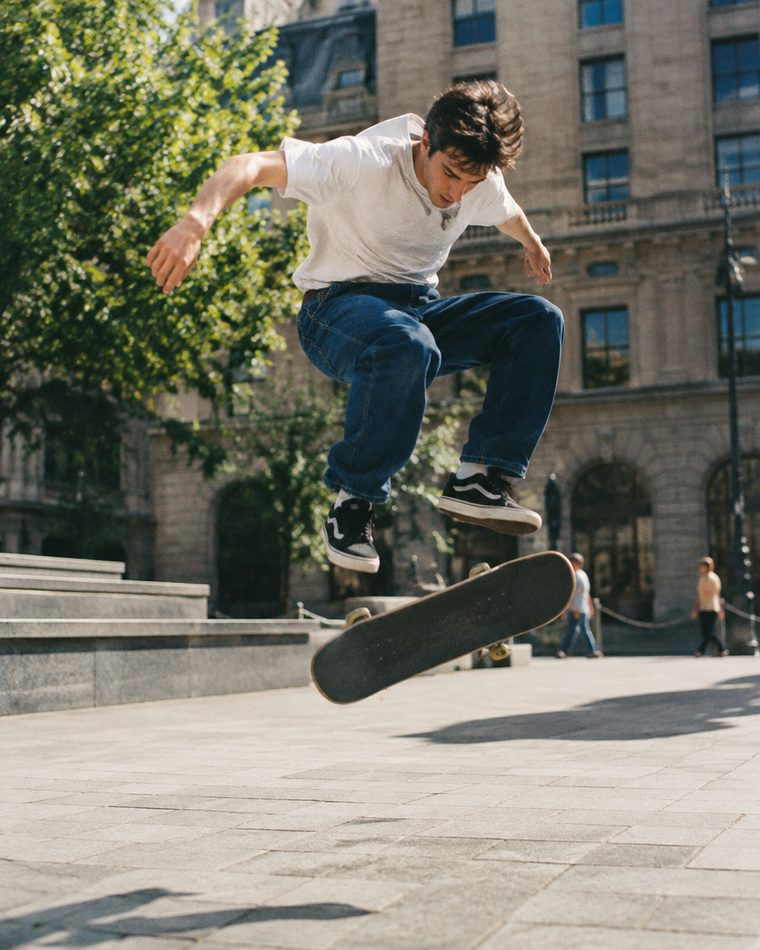
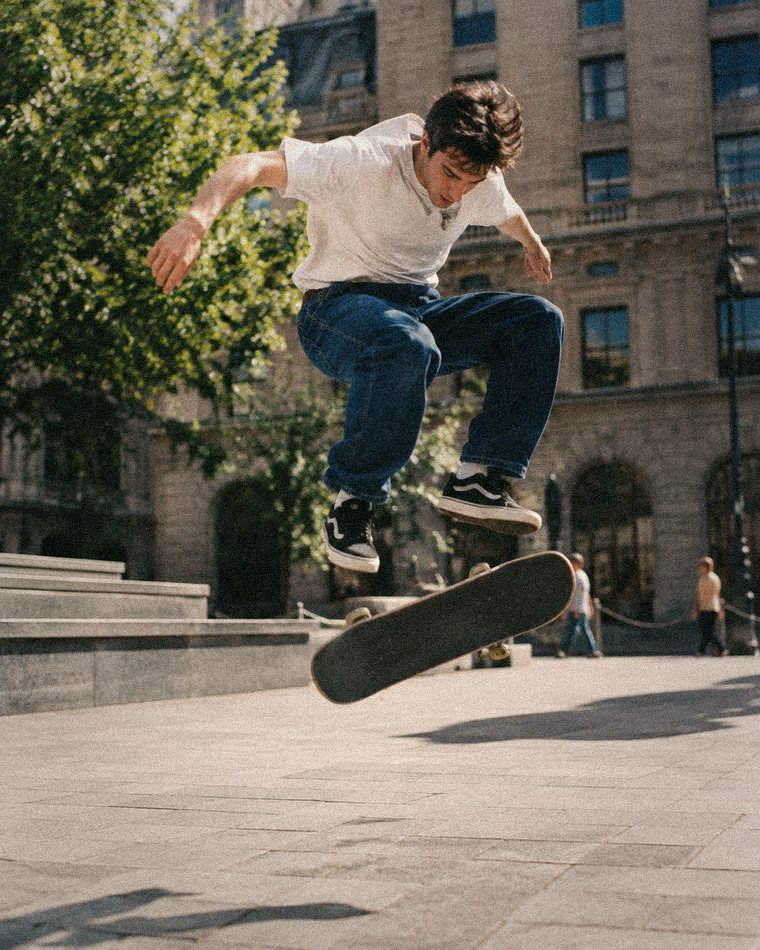
Lock design: Deck type, lime, Original hero, no panel; clean jar cutouts; filmic photo grade; two-tone wordmark
- Remove prototype panel (typeface=Deck, accent=lime, section numbers off, hero=Original — all fixed)
- Clean the jar cutout edges (de-jagged alpha) on all three jars
- Filmic grade + grain on lifestyle photos to match the deck's 35mm aesthetic
- Wordmark: 'wasabi' lime + 'rub' white

diff --git a/index.html b/index.html
@@ -2,15 +2,13 @@
 <meta charset="utf-8"><meta name="viewport" content="width=device-width,initial-scale=1">
 <title>WasabiRub 2027</title>
 <meta name="robots" content="noindex,nofollow">
-<link rel="preconnect" href="https://fonts.googleapis.com"><link rel="preconnect" href="https://fonts.gstatic.com" crossorigin>
-<link href="https://fonts.googleapis.com/css2?family=Fraunces:ital,opsz,wght@0,9..144,500;1,9..144,500&family=Archivo:ital,wght@0,500;0,700;0,900;1,900&family=Playfair+Display:ital,wght@0,500;0,700;1,600&family=Jost:ital,wght@0,400;0,500;0,700;1,700&display=swap" rel="stylesheet">
 <link rel="stylesheet" href="css/site.css">
 </head><body>
 <div class="ticker" aria-hidden="true"><div class="run">
 <span>MADE FOR EVERY BODY THAT MOVES</span><span>•</span><span>PAIN RELIEF THAT KEEPS YOU MOVING</span><span>•</span><span>MOVE SERIOUSLY. LIVE PLAYFULLY.</span><span>•</span><span>BELONG IN MOTION</span><span>•</span><span>MADE FOR EVERY BODY THAT MOVES</span><span>•</span><span>PAIN RELIEF THAT KEEPS YOU MOVING</span><span>•</span><span>MOVE SERIOUSLY. LIVE PLAYFULLY.</span><span>•</span>
 </div></div>
 <nav class="bar"><div class="wrap bar-in">
-  <a class="wm" href="index.html">wasabirub<sup>&reg;</sup></a>
+  <a class="wm" href="index.html">wasabi<span class="wr">rub<sup>&reg;</sup></span></a>
   <div class="links"><a href="shop.html">The rubs</a><a href="index.html#idea">The idea</a><a href="index.html#cred">Why trust it</a><a href="index.html#belong">The movement</a></div>
   <span class="spacer"></span>
   <a class="pill-btn" href="shop.html">Shop &rarr;</a>
@@ -23,7 +21,7 @@
     <div class="badges"><span class="badge"><b>&check;</b> Pharmacist formulated</span><span class="badge"><b>&check;</b> TruShield Certified</span><span class="badge"><b>&check;</b> Tested for sport</span></div>
   </div>
   <div class="jar-vis"><span class="jar-disc"></span><span class="jar-shadow"></span><span class="geo g1">34.0195&deg;N</span><span class="geo g2">IN MOTION</span>
-    <img id="hero-jar" src="assets/jar-hot.png" alt="WasabiRub Super Hot jar"></div>
+    <img id="hero-jar" src="assets/jar-og.png" alt="WasabiRub Original jar"></div>
 </div></header>
 
 <section class="band"><img id="band-photo" src="assets/life-finish.jpg" alt="Runners celebrating at a sunny finish line">
@@ -92,7 +90,7 @@
 <footer><div class="wrap">
   <span class="concept-flag">2027 Direction concept &middot; secondary site option &middot; not the live site</span>
   <div class="foot-top">
-    <div><span class="wm">wasabirub<sup>&reg;</sup></span><p class="foot-tag">pain relief that keeps you moving.</p></div>
+    <div><span class="wm">wasabi<span class="wr">rub<sup>&reg;</sup></span></span><p class="foot-tag">pain relief that keeps you moving.</p></div>
     <div class="foot-cols">
       <div class="foot-col"><h4>Shop</h4><a href="product-wasabirub.html">WasabiRub</a><a href="product-super-hot.html">Super Hot</a><a href="product-super-cold.html">Super Cold</a><a href="shop.html">All rubs</a></div>
       <div class="foot-col"><h4>Brand</h4><a href="index.html#idea">The idea</a><a href="index.html#cred">Why trust it</a><a href="index.html#belong">The movement</a></div>
@@ -100,5 +98,4 @@
   </div>
   <p class="foot-fine">Concept exploration of the 2027 movement-brand direction for WasabiRub by SportPharm &mdash; a secondary site option, not the live store. For external use only. For the temporary relief of minor aches and pains of muscles and joints; use only as directed and read the Drug Facts label. Product photography is real; lifestyle imagery is AI-generated for direction.</p>
 </div></footer>
-<script src="proto.js" defer></script>
 </body></html>

diff --git a/product-super-cold.html b/product-super-cold.html
@@ -2,15 +2,13 @@
 <meta charset="utf-8"><meta name="viewport" content="width=device-width,initial-scale=1">
 <title>Super Cold | WasabiRub 2027</title>
 <meta name="robots" content="noindex,nofollow">
-<link rel="preconnect" href="https://fonts.googleapis.com"><link rel="preconnect" href="https://fonts.gstatic.com" crossorigin>
-<link href="https://fonts.googleapis.com/css2?family=Fraunces:ital,opsz,wght@0,9..144,500;1,9..144,500&family=Archivo:ital,wght@0,500;0,700;0,900;1,900&family=Playfair+Display:ital,wght@0,500;0,700;1,600&family=Jost:ital,wght@0,400;0,500;0,700;1,700&display=swap" rel="stylesheet">
 <link rel="stylesheet" href="css/site.css">
 </head><body>
 <div class="ticker" aria-hidden="true"><div class="run">
 <span>MADE FOR EVERY BODY THAT MOVES</span><span>•</span><span>PAIN RELIEF THAT KEEPS YOU MOVING</span><span>•</span><span>MOVE SERIOUSLY. LIVE PLAYFULLY.</span><span>•</span><span>BELONG IN MOTION</span><span>•</span><span>MADE FOR EVERY BODY THAT MOVES</span><span>•</span><span>PAIN RELIEF THAT KEEPS YOU MOVING</span><span>•</span><span>MOVE SERIOUSLY. LIVE PLAYFULLY.</span><span>•</span>
 </div></div>
 <nav class="bar"><div class="wrap bar-in">
-  <a class="wm" href="index.html">wasabirub<sup>&reg;</sup></a>
+  <a class="wm" href="index.html">wasabi<span class="wr">rub<sup>&reg;</sup></span></a>
   <div class="links"><a class="on" href="shop.html">The rubs</a><a href="index.html#idea">The idea</a><a href="index.html#cred">Why trust it</a><a href="index.html#belong">The movement</a></div>
   <span class="spacer"></span>
   <a class="pill-btn" href="shop.html">Shop &rarr;</a>
@@ -55,7 +53,7 @@
 <footer><div class="wrap">
   <span class="concept-flag">2027 Direction concept &middot; secondary site option &middot; not the live site</span>
   <div class="foot-top">
-    <div><span class="wm">wasabirub<sup>&reg;</sup></span><p class="foot-tag">pain relief that keeps you moving.</p></div>
+    <div><span class="wm">wasabi<span class="wr">rub<sup>&reg;</sup></span></span><p class="foot-tag">pain relief that keeps you moving.</p></div>
     <div class="foot-cols">
       <div class="foot-col"><h4>Shop</h4><a href="product-wasabirub.html">WasabiRub</a><a href="product-super-hot.html">Super Hot</a><a href="product-super-cold.html">Super Cold</a><a href="shop.html">All rubs</a></div>
       <div class="foot-col"><h4>Brand</h4><a href="index.html#idea">The idea</a><a href="index.html#cred">Why trust it</a><a href="index.html#belong">The movement</a></div>
@@ -63,5 +61,4 @@
   </div>
   <p class="foot-fine">Concept exploration of the 2027 movement-brand direction for WasabiRub by SportPharm &mdash; a secondary site option, not the live store. For external use only. For the temporary relief of minor aches and pains of muscles and joints; use only as directed and read the Drug Facts label. Product photography is real; lifestyle imagery is AI-generated for direction.</p>
 </div></footer>
-<script src="proto.js" defer></script>
 </body></html>

diff --git a/product-super-hot.html b/product-super-hot.html
@@ -2,15 +2,13 @@
 <meta charset="utf-8"><meta name="viewport" content="width=device-width,initial-scale=1">
 <title>Super Hot | WasabiRub 2027</title>
 <meta name="robots" content="noindex,nofollow">
-<link rel="preconnect" href="https://fonts.googleapis.com"><link rel="preconnect" href="https://fonts.gstatic.com" crossorigin>
-<link href="https://fonts.googleapis.com/css2?family=Fraunces:ital,opsz,wght@0,9..144,500;1,9..144,500&family=Archivo:ital,wght@0,500;0,700;0,900;1,900&family=Playfair+Display:ital,wght@0,500;0,700;1,600&family=Jost:ital,wght@0,400;0,500;0,700;1,700&display=swap" rel="stylesheet">
 <link rel="stylesheet" href="css/site.css">
 </head><body>
 <div class="ticker" aria-hidden="true"><div class="run">
 <span>MADE FOR EVERY BODY THAT MOVES</span><span>•</span><span>PAIN RELIEF THAT KEEPS YOU MOVING</span><span>•</span><span>MOVE SERIOUSLY. LIVE PLAYFULLY.</span><span>•</span><span>BELONG IN MOTION</span><span>•</span><span>MADE FOR EVERY BODY THAT MOVES</span><span>•</span><span>PAIN RELIEF THAT KEEPS YOU MOVING</span><span>•</span><span>MOVE SERIOUSLY. LIVE PLAYFULLY.</span><span>•</span>
 </div></div>
 <nav class="bar"><div class="wrap bar-in">
-  <a class="wm" href="index.html">wasabirub<sup>&reg;</sup></a>
+  <a class="wm" href="index.html">wasabi<span class="wr">rub<sup>&reg;</sup></span></a>
   <div class="links"><a class="on" href="shop.html">The rubs</a><a href="index.html#idea">The idea</a><a href="index.html#cred">Why trust it</a><a href="index.html#belong">The movement</a></div>
   <span class="spacer"></span>
   <a class="pill-btn" href="shop.html">Shop &rarr;</a>
@@ -55,7 +53,7 @@
 <footer><div class="wrap">
   <span class="concept-flag">2027 Direction concept &middot; secondary site option &middot; not the live site</span>
   <div class="foot-top">
-    <div><span class="wm">wasabirub<sup>&reg;</sup></span><p class="foot-tag">pain relief that keeps you moving.</p></div>
+    <div><span class="wm">wasabi<span class="wr">rub<sup>&reg;</sup></span></span><p class="foot-tag">pain relief that keeps you moving.</p></div>
     <div class="foot-cols">
       <div class="foot-col"><h4>Shop</h4><a href="product-wasabirub.html">WasabiRub</a><a href="product-super-hot.html">Super Hot</a><a href="product-super-cold.html">Super Cold</a><a href="shop.html">All rubs</a></div>
       <div class="foot-col"><h4>Brand</h4><a href="index.html#idea">The idea</a><a href="index.html#cred">Why trust it</a><a href="index.html#belong">The movement</a></div>
@@ -63,5 +61,4 @@
   </div>
   <p class="foot-fine">Concept exploration of the 2027 movement-brand direction for WasabiRub by SportPharm &mdash; a secondary site option, not the live store. For external use only. For the temporary relief of minor aches and pains of muscles and joints; use only as directed and read the Drug Facts label. Product photography is real; lifestyle imagery is AI-generated for direction.</p>
 </div></footer>
-<script src="proto.js" defer></script>
 </body></html>

diff --git a/product-wasabirub.html b/product-wasabirub.html
@@ -2,15 +2,13 @@
 <meta charset="utf-8"><meta name="viewport" content="width=device-width,initial-scale=1">
 <title>WasabiRub | WasabiRub 2027</title>
 <meta name="robots" content="noindex,nofollow">
-<link rel="preconnect" href="https://fonts.googleapis.com"><link rel="preconnect" href="https://fonts.gstatic.com" crossorigin>
-<link href="https://fonts.googleapis.com/css2?family=Fraunces:ital,opsz,wght@0,9..144,500;1,9..144,500&family=Archivo:ital,wght@0,500;0,700;0,900;1,900&family=Playfair+Display:ital,wght@0,500;0,700;1,600&family=Jost:ital,wght@0,400;0,500;0,700;1,700&display=swap" rel="stylesheet">
 <link rel="stylesheet" href="css/site.css">
 </head><body>
 <div class="ticker" aria-hidden="true"><div class="run">
 <span>MADE FOR EVERY BODY THAT MOVES</span><span>•</span><span>PAIN RELIEF THAT KEEPS YOU MOVING</span><span>•</span><span>MOVE SERIOUSLY. LIVE PLAYFULLY.</span><span>•</span><span>BELONG IN MOTION</span><span>•</span><span>MADE FOR EVERY BODY THAT MOVES</span><span>•</span><span>PAIN RELIEF THAT KEEPS YOU MOVING</span><span>•</span><span>MOVE SERIOUSLY. LIVE PLAYFULLY.</span><span>•</span>
 </div></div>
 <nav class="bar"><div class="wrap bar-in">
-  <a class="wm" href="index.html">wasabirub<sup>&reg;</sup></a>
+  <a class="wm" href="index.html">wasabi<span class="wr">rub<sup>&reg;</sup></span></a>
   <div class="links"><a class="on" href="shop.html">The rubs</a><a href="index.html#idea">The idea</a><a href="index.html#cred">Why trust it</a><a href="index.html#belong">The movement</a></div>
   <span class="spacer"></span>
   <a class="pill-btn" href="shop.html">Shop &rarr;</a>
@@ -55,7 +53,7 @@
 <footer><div class="wrap">
   <span class="concept-flag">2027 Direction concept &middot; secondary site option &middot; not the live site</span>
   <div class="foot-top">
-    <div><span class="wm">wasabirub<sup>&reg;</sup></span><p class="foot-tag">pain relief that keeps you moving.</p></div>
+    <div><span class="wm">wasabi<span class="wr">rub<sup>&reg;</sup></span></span><p class="foot-tag">pain relief that keeps you moving.</p></div>
     <div class="foot-cols">
       <div class="foot-col"><h4>Shop</h4><a href="product-wasabirub.html">WasabiRub</a><a href="product-super-hot.html">Super Hot</a><a href="product-super-cold.html">Super Cold</a><a href="shop.html">All rubs</a></div>
       <div class="foot-col"><h4>Brand</h4><a href="index.html#idea">The idea</a><a href="index.html#cred">Why trust it</a><a href="index.html#belong">The movement</a></div>
@@ -63,5 +61,4 @@
   </div>
   <p class="foot-fine">Concept exploration of the 2027 movement-brand direction for WasabiRub by SportPharm &mdash; a secondary site option, not the live store. For external use only. For the temporary relief of minor aches and pains of muscles and joints; use only as directed and read the Drug Facts label. Product photography is real; lifestyle imagery is AI-generated for direction.</p>
 </div></footer>
-<script src="proto.js" defer></script>
 </body></html>

diff --git a/shop.html b/shop.html
@@ -2,15 +2,13 @@
 <meta charset="utf-8"><meta name="viewport" content="width=device-width,initial-scale=1">
 <title>Shop | WasabiRub 2027</title>
 <meta name="robots" content="noindex,nofollow">
-<link rel="preconnect" href="https://fonts.googleapis.com"><link rel="preconnect" href="https://fonts.gstatic.com" crossorigin>
-<link href="https://fonts.googleapis.com/css2?family=Fraunces:ital,opsz,wght@0,9..144,500;1,9..144,500&family=Archivo:ital,wght@0,500;0,700;0,900;1,900&family=Playfair+Display:ital,wght@0,500;0,700;1,600&family=Jost:ital,wght@0,400;0,500;0,700;1,700&display=swap" rel="stylesheet">
 <link rel="stylesheet" href="css/site.css">
 </head><body>
 <div class="ticker" aria-hidden="true"><div class="run">
 <span>MADE FOR EVERY BODY THAT MOVES</span><span>•</span><span>PAIN RELIEF THAT KEEPS YOU MOVING</span><span>•</span><span>MOVE SERIOUSLY. LIVE PLAYFULLY.</span><span>•</span><span>BELONG IN MOTION</span><span>•</span><span>MADE FOR EVERY BODY THAT MOVES</span><span>•</span><span>PAIN RELIEF THAT KEEPS YOU MOVING</span><span>•</span><span>MOVE SERIOUSLY. LIVE PLAYFULLY.</span><span>•</span>
 </div></div>
 <nav class="bar"><div class="wrap bar-in">
-  <a class="wm" href="index.html">wasabirub<sup>&reg;</sup></a>
+  <a class="wm" href="index.html">wasabi<span class="wr">rub<sup>&reg;</sup></span></a>
   <div class="links"><a class="on" href="shop.html">The rubs</a><a href="index.html#idea">The idea</a><a href="index.html#cred">Why trust it</a><a href="index.html#belong">The movement</a></div>
   <span class="spacer"></span>
   <a class="pill-btn" href="shop.html">Shop &rarr;</a>
@@ -47,7 +45,7 @@
 <footer><div class="wrap">
   <span class="concept-flag">2027 Direction concept &middot; secondary site option &middot; not the live site</span>
   <div class="foot-top">
-    <div><span class="wm">wasabirub<sup>&reg;</sup></span><p class="foot-tag">pain relief that keeps you moving.</p></div>
+    <div><span class="wm">wasabi<span class="wr">rub<sup>&reg;</sup></span></span><p class="foot-tag">pain relief that keeps you moving.</p></div>
     <div class="foot-cols">
       <div class="foot-col"><h4>Shop</h4><a href="product-wasabirub.html">WasabiRub</a><a href="product-super-hot.html">Super Hot</a><a href="product-super-cold.html">Super Cold</a><a href="shop.html">All rubs</a></div>
       <div class="foot-col"><h4>Brand</h4><a href="index.html#idea">The idea</a><a href="index.html#cred">Why trust it</a><a href="index.html#belong">The movement</a></div>
@@ -55,5 +53,4 @@
   </div>
   <p class="foot-fine">Concept exploration of the 2027 movement-brand direction for WasabiRub by SportPharm &mdash; a secondary site option, not the live store. For external use only. For the temporary relief of minor aches and pains of muscles and joints; use only as directed and read the Drug Facts label. Product photography is real; lifestyle imagery is AI-generated for direction.</p>
 </div></footer>
-<script src="proto.js" defer></script>
 </body></html>

diff --git a/css/site.css b/css/site.css
@@ -273,3 +273,5 @@ html[data-nums="on"] section.sec-pad::before{counter-increment:secn;content:coun
 .hero h1,.band h2,.idea h2,.idea-foot,.range h2,.shop-head h2,.rung h3,.card h3,.card .price,.cred h2,.belong h2,.pdp-copy h1,.feel h2,.feel-step h3,.pdp-reviews h2,.cross h2,.foot-tag,.serif{font-weight:700;letter-spacing:-.03em}
 html[data-typeface="editorial"] :is(.hero h1,.band h2,.idea h2,.idea-foot,.range h2,.shop-head h2,.rung h3,.card h3,.card .price,.cred h2,.belong h2,.pdp-copy h1,.feel h2,.feel-step h3,.pdp-reviews h2,.cross h2,.foot-tag,.serif),
 html[data-typeface="classic"] :is(.hero h1,.band h2,.idea h2,.idea-foot,.range h2,.shop-head h2,.rung h3,.card h3,.card .price,.cred h2,.belong h2,.pdp-copy h1,.feel h2,.feel-step h3,.pdp-reviews h2,.cross h2,.foot-tag,.serif){font-weight:500;letter-spacing:-.02em}
+
+.wm .wr{color:#fff}

diff --git a/build.py b/build.py
@@ -10,7 +10,7 @@ def nav(active):
 <span>MADE FOR EVERY BODY THAT MOVES</span><span>•</span><span>PAIN RELIEF THAT KEEPS YOU MOVING</span><span>•</span><span>MOVE SERIOUSLY. LIVE PLAYFULLY.</span><span>•</span><span>BELONG IN MOTION</span><span>•</span><span>MADE FOR EVERY BODY THAT MOVES</span><span>•</span><span>PAIN RELIEF THAT KEEPS YOU MOVING</span><span>•</span><span>MOVE SERIOUSLY. LIVE PLAYFULLY.</span><span>•</span>
 </div></div>
 <nav class="bar"><div class="wrap bar-in">
-  <a class="wm" href="index.html">wasabirub<sup>&reg;</sup></a>
+  <a class="wm" href="index.html">wasabi<span class="wr">rub<sup>&reg;</sup></span></a>
   <div class="links">{a("shop.html","The rubs","shop")}{a("index.html#idea","The idea","idea")}{a("index.html#cred","Why trust it","cred")}{a("index.html#belong","The movement","move")}</div>
   <span class="spacer"></span>
   <a class="pill-btn" href="shop.html">Shop &rarr;</a>
@@ -19,7 +19,7 @@ def nav(active):
 FOOTER='''<footer><div class="wrap">
   <span class="concept-flag">2027 Direction concept &middot; secondary site option &middot; not the live site</span>
   <div class="foot-top">
-    <div><span class="wm">wasabirub<sup>&reg;</sup></span><p class="foot-tag">pain relief that keeps you moving.</p></div>
+    <div><span class="wm">wasabi<span class="wr">rub<sup>&reg;</sup></span></span><p class="foot-tag">pain relief that keeps you moving.</p></div>
     <div class="foot-cols">
       <div class="foot-col"><h4>Shop</h4><a href="product-wasabirub.html">WasabiRub</a><a href="product-super-hot.html">Super Hot</a><a href="product-super-cold.html">Super Cold</a><a href="shop.html">All rubs</a></div>
       <div class="foot-col"><h4>Brand</h4><a href="index.html#idea">The idea</a><a href="index.html#cred">Why trust it</a><a href="index.html#belong">The movement</a></div>
@@ -33,14 +33,11 @@ def page(title, active, main):
 <meta charset="utf-8"><meta name="viewport" content="width=device-width,initial-scale=1">
 <title>{title}</title>
 <meta name="robots" content="noindex,nofollow">
-<link rel="preconnect" href="https://fonts.googleapis.com"><link rel="preconnect" href="https://fonts.gstatic.com" crossorigin>
-<link href="https://fonts.googleapis.com/css2?family=Fraunces:ital,opsz,wght@0,9..144,500;1,9..144,500&family=Archivo:ital,wght@0,500;0,700;0,900;1,900&family=Playfair+Display:ital,wght@0,500;0,700;1,600&family=Jost:ital,wght@0,400;0,500;0,700;1,700&display=swap" rel="stylesheet">
 <link rel="stylesheet" href="css/site.css">
 </head><body>
 {nav(active)}
 {main}
 {FOOTER}
-<script src="proto.js" defer></script>
 </body></html>'''
 
 PRODUCTS={
@@ -79,7 +76,7 @@ home=f'''<header class="hero"><div class="wrap hero-grid">
     <div class="badges"><span class="badge"><b>&check;</b> Pharmacist formulated</span><span class="badge"><b>&check;</b> TruShield Certified</span><span class="badge"><b>&check;</b> Tested for sport</span></div>
   </div>
   <div class="jar-vis"><span class="jar-disc"></span><span class="jar-shadow"></span><span class="geo g1">34.0195&deg;N</span><span class="geo g2">IN MOTION</span>
-    <img id="hero-jar" src="assets/jar-hot.png" alt="WasabiRub Super Hot jar"></div>
+    <img id="hero-jar" src="assets/jar-og.png" alt="WasabiRub Original jar"></div>
 </div></header>
 
 <section class="band"><img id="band-photo" src="assets/life-finish.jpg" alt="Runners celebrating at a sunny finish line">
